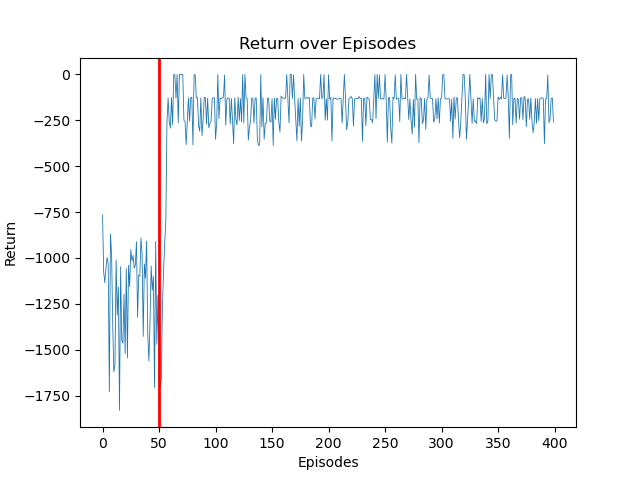
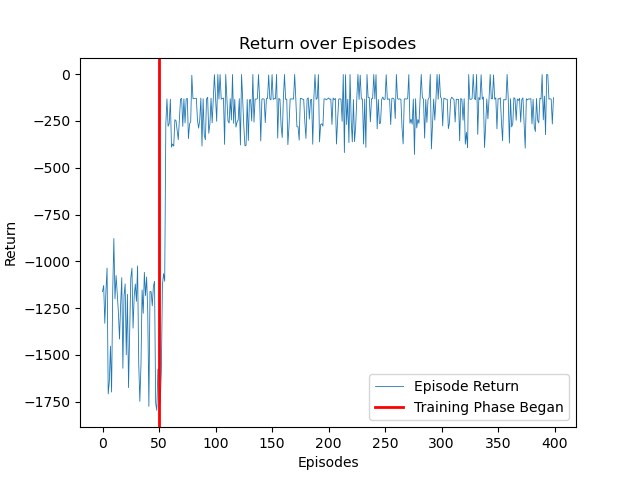
graph changed

diff --git a/Deep Deterministic Policy Gradient (DDPG)/DDPG_Main.py b/Deep Deterministic Policy Gradient (DDPG)/DDPG_Main.py
@@ -79,6 +79,7 @@ if __name__ == "__main__":
     
     plt.plot(return_lst, linewidth=0.6, label='Episode Return')
     plt.axvline(training_started, linewidth=2, color="r", label='Training Phase Began')
+    plt.legend()
     plt.title("Return over Episodes")
     plt.xlabel("Episodes")
     plt.ylabel("Return")

diff --git a/Soft Actor Critic (SAC)/SAC_Main.py b/Soft Actor Critic (SAC)/SAC_Main.py
@@ -79,6 +79,7 @@ if __name__ == "__main__":
     
     plt.plot(return_lst, linewidth=0.6, label='Episode Return')
     plt.axvline(training_started, linewidth=2, color="r", label='Training Phase Began')
+    plt.legend()
     plt.title("Return over Episodes")
     plt.xlabel("Episodes")
     plt.ylabel("Return")
